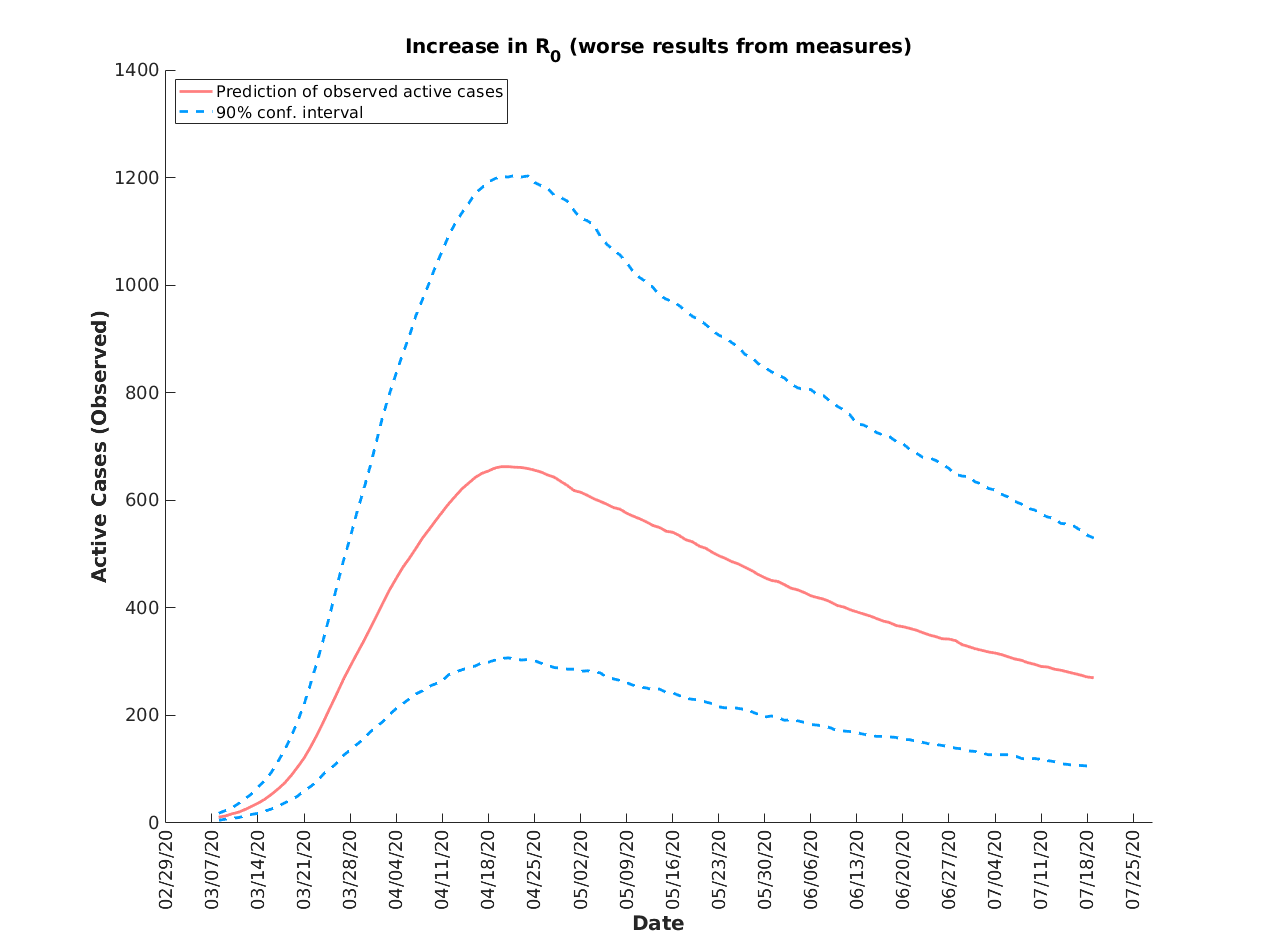
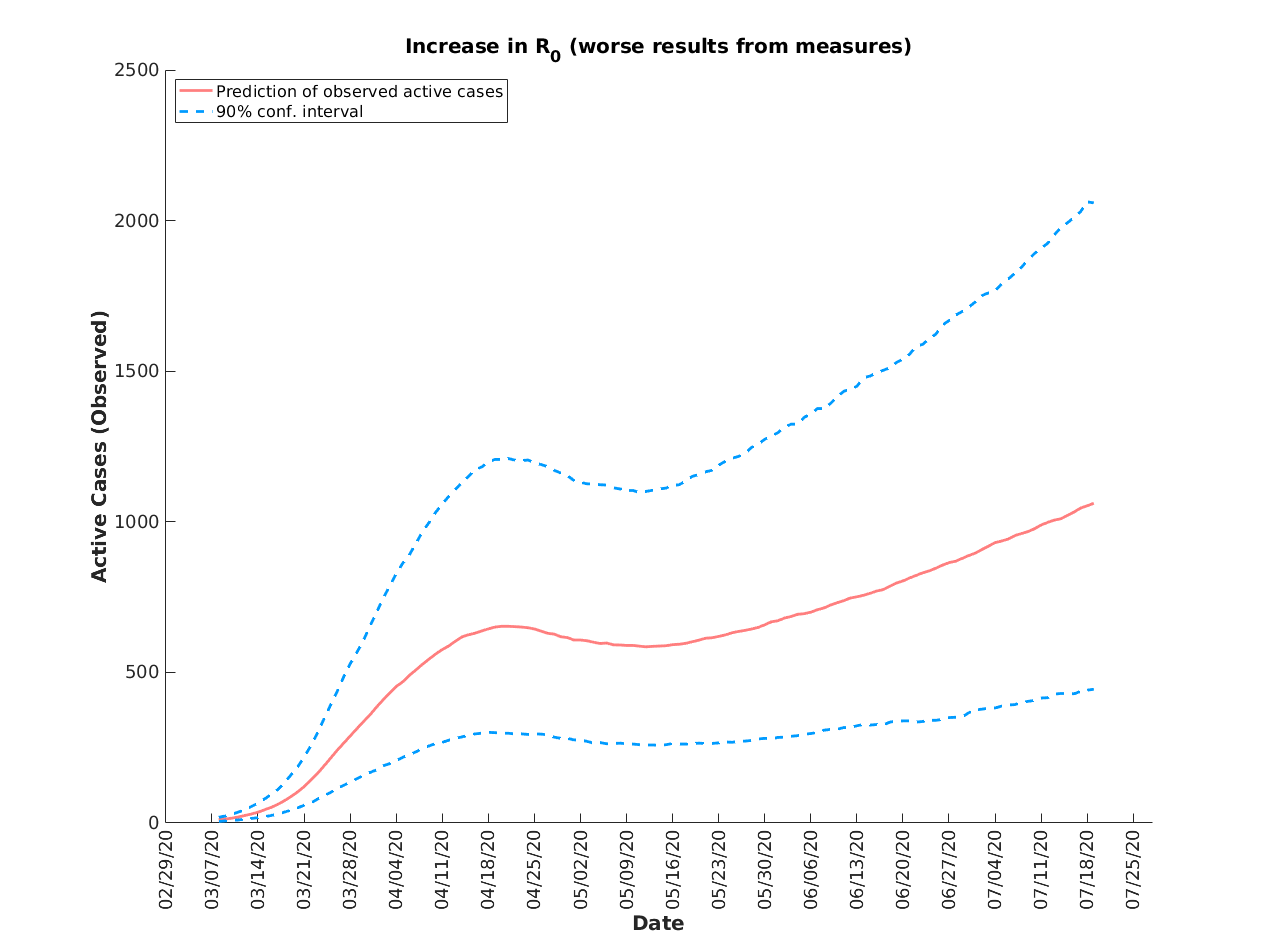
Add files via upload

diff --git a/COVID19 Models/Bulgaria/COVID19_Bulgaria.m b/COVID19 Models/Bulgaria/COVID19_Bulgaria.m
@@ -106,8 +106,8 @@ NewCases_optimistic = diff(TotalCases_optimistic');
 
 % converts from h period of time to daily period of time
 NewCasesDaily_optimistic = squeeze(sum(reshape(NewCases_optimistic, [2, size(NewCases_optimistic,1)*h, size(NewCases_optimistic,2)])))';
-TotalCasesDaily_optimistic= TotalCases(:, 1:(1/h):T/h);    
-ActiveCasesDaily_optimistic= ActiveCases(:, 1:(1/h):T/h);
+TotalCasesDaily_optimistic= TotalCases_optimistic(:, 1:(1/h):T/h);    
+ActiveCasesDaily_optimistic= ActiveCases_optimistic(:, 1:(1/h):T/h);
 
 % build and save plots
 buildPlots(NewCasesDaily_optimistic, TotalCasesDaily_optimistic, ActiveCasesDaily_optimistic, newcases_hist, dates, horizon, detection_time, ...
@@ -128,8 +128,8 @@ NewCases_pessimistic = diff(TotalCases_pessimistic');
 
 % converts from h period of time to daily period of time
 NewCasesDaily_pessimistic = squeeze(sum(reshape(NewCases_pessimistic, [2, size(NewCases_pessimistic,1)*h, size(NewCases_pessimistic,2)])))';
-TotalCasesDaily_pessimistic= TotalCases(:, 1:(1/h):T/h);    
-ActiveCasesDaily_pessimistic= ActiveCases(:, 1:(1/h):T/h);
+TotalCasesDaily_pessimistic= TotalCases_pessimistic(:, 1:(1/h):T/h);    
+ActiveCasesDaily_pessimistic= ActiveCases_pessimistic(:, 1:(1/h):T/h);
 
 % build and save plots
 buildPlots(NewCasesDaily_pessimistic, TotalCasesDaily_pessimistic, ActiveCasesDaily_pessimistic, newcases_hist, dates, horizon, detection_time, ...
